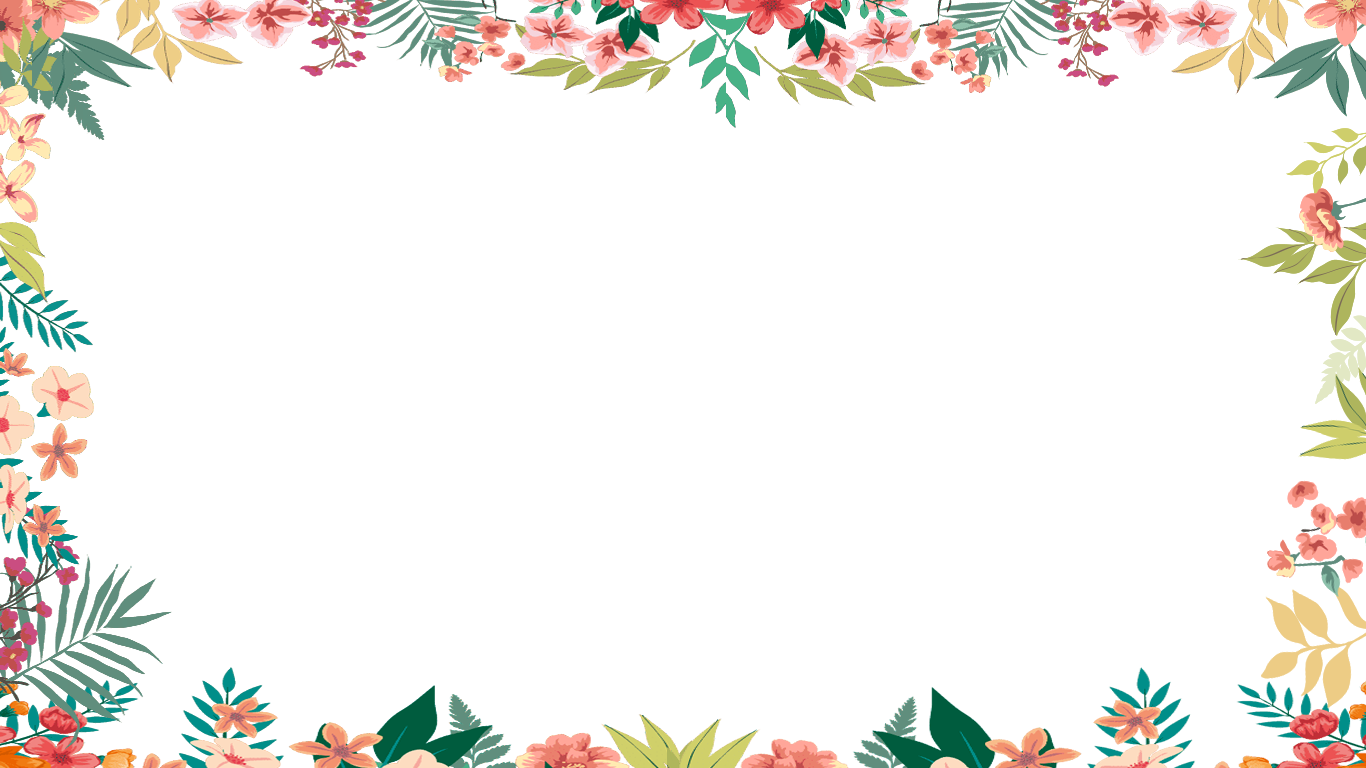
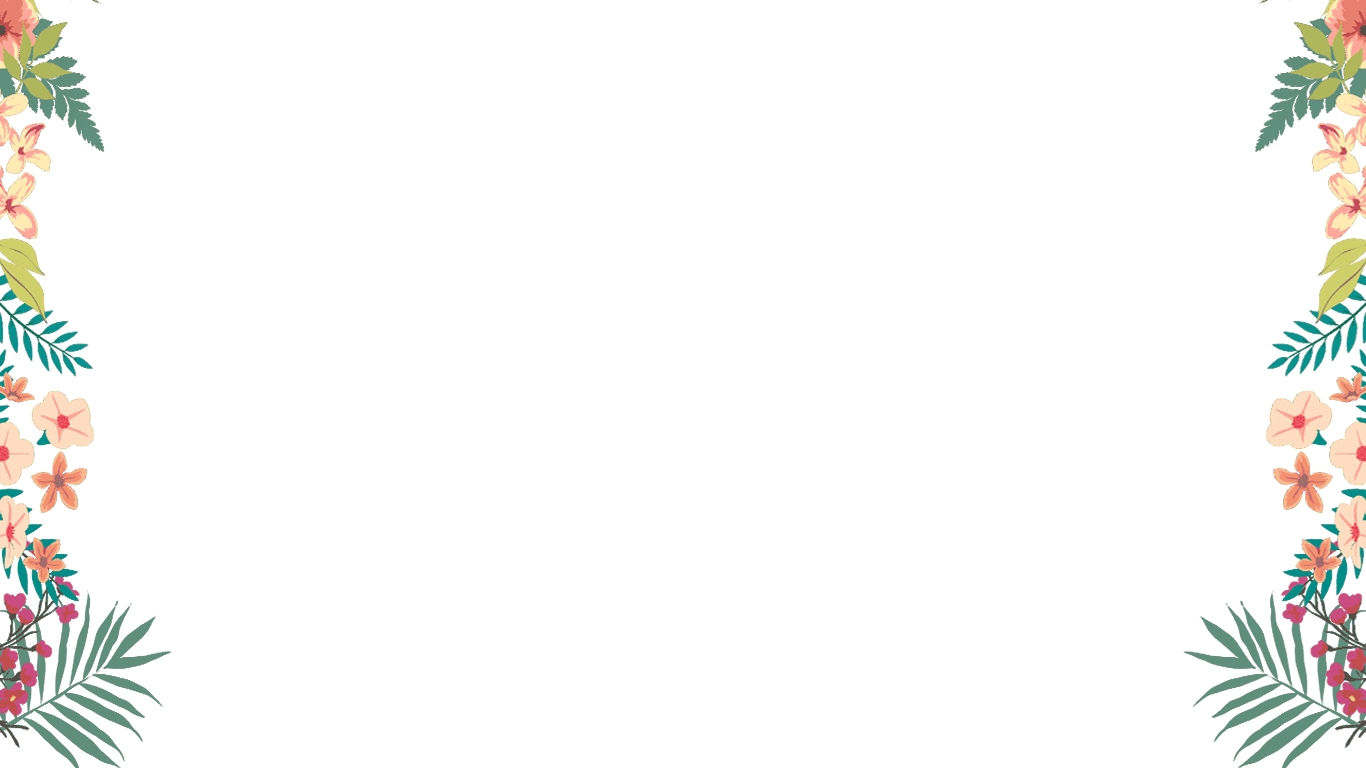
update CSS

Changed region(s): [[0.0, 0.0, 1.0, 1.0]]

diff --git a/index.html b/index.html
@@ -91,6 +91,9 @@
                 </div>
             </div>
     </section>
+    <footer>
+     <p>Silang Tourist Spots &copy; 2018 </p>
+    </footer>
     <script src="https://code.jquery.com/jquery-3.3.1.js"> </script>
     <script type="text/javascript">
     jQuery(document).ready(function(){
@@ -100,7 +103,5 @@
     })
     </script>
     </body>
-    <footer>
-       <p>Silang Tourist Spots Copyright &copy; 2018 </p>
-    </footer>
+
 </html>

diff --git a/css/style.css b/css/style.css
@@ -7,7 +7,7 @@ body {
   background-position: center;
   background-attachment: fixed;
   max-width: 100%;
-  
+  max-height: 1170px;
   overflow-x: hidden;
   display: block;
 
